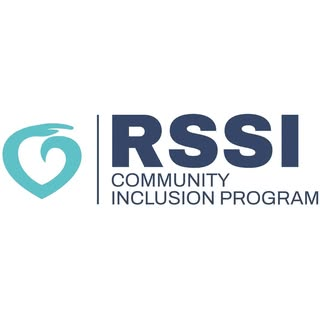
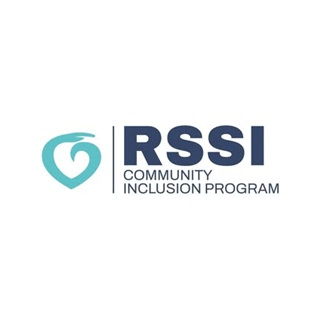
ok_added_og_image

Changed region(s): [[0.0, 0.3438, 1.0, 0.6562]]

diff --git a/public/admission.html b/public/admission.html
@@ -15,6 +15,7 @@
         content="Explore admission details at RSSI NGO and Kalpana Buds School. Learn about eligibility, application process, and academic programs for early childhood and primary education.">
 
     <meta name="author" content="RSSI NGO">
+    <meta property="og:image" content="https://rssi.in/img/og_image.png">
     <meta name="keywords"
         content="RSSI NGO admission, Kalpana Buds School admission, school admission process, nursery admission, UKG admission, primary school admission, NGO education program, child education NGO, admission guidelines">
     <meta charset="UTF-8">

diff --git a/public/donation_invoice.html b/public/donation_invoice.html
@@ -15,6 +15,7 @@
         content="Generate and download your donation invoice from RSSI NGO. Access official donation receipts for your contributions made towards education and social welfare initiatives.">
 
     <meta name="author" content="RSSI NGO">
+    <meta property="og:image" content="https://rssi.in/img/og_image.png">
 
     <meta name="keywords"
         content="RSSI NGO donation invoice, donation receipt, NGO donation invoice, generate donation receipt, charity donation proof, donation acknowledgement, RSSI donation portal">

diff --git a/public/visit-us.html b/public/visit-us.html
@@ -16,6 +16,7 @@
     <meta name="keywords"
         content="RSSI NGO visit, NGO centre visit, RSSI NGO location, NGO programs, community initiatives, NGO contact information">
     <meta name="author" content="RSSI NGO">
+    <meta property="og:image" content="https://rssi.in/img/og_image.png">
     <meta charset="UTF-8">
     <meta http-equiv="X-UA-Compatible" content="IE=Edge">
     <meta name="viewport" content="width=device-width, initial-scale=1, maximum-scale=1">

diff --git a/public/signup.html b/public/signup.html
@@ -20,6 +20,7 @@
     <meta name="keywords"
         content="RSSI NGO application form, NGO jobs application, internship application, volunteer registration, membership application">
     <meta name="author" content="RSSI NGO">
+    <meta property="og:image" content="https://rssi.in/img/og_image.png">
     <link rel="shortcut icon" href="../img/favicon.ico" type="image/x-icon" />
     <!-- Bootstrap CSS -->
     <!-- Bootstrap CSS -->

diff --git a/public/announcements.html b/public/announcements.html
@@ -23,6 +23,7 @@
         content="RSSI NGO announcements, RSSI NGO updates, RSSI notices, NGO announcements India, RSSI NGO news, social initiatives updates, education NGO announcements, Kalpana Buds School updates">
 
     <meta name="author" content="RSSI NGO">
+    <meta property="og:image" content="https://rssi.in/img/og_image.png">
 
     <!-- Favicons -->
     <link href="/img/favicon.ico" rel="icon">

diff --git a/public/registration.html b/public/registration.html
@@ -19,6 +19,7 @@
     <meta name="keywords"
         content="RSSI get involved, join RSSI NGO, volunteer opportunities, internship program, NGO membership, job opportunities, community service">
     <meta name="author" content="RSSI NGO">
+    <meta property="og:image" content="https://rssi.in/img/og_image.png">
 
     <!-- Favicons -->
     <link href="/img/favicon.ico" rel="icon">

diff --git a/public/donation-portal.html b/public/donation-portal.html
@@ -22,6 +22,7 @@
         content="donate to RSSI NGO, NGO donation, support education NGO, charity donation India, donate for social welfare, nonprofit donation, RSSI donation portal">
 
     <meta name="author" content="RSSI NGO">
+    <meta property="og:image" content="https://rssi.in/img/og_image.png">
 
     <!-- Favicons -->
     <link href="/img/favicon.ico" rel="icon">

diff --git a/public/careers.html b/public/careers.html
@@ -19,6 +19,7 @@
     <meta name="keywords"
         content="RSSI NGO careers, teaching jobs Lucknow, Assistant Teacher job, education jobs, pre-primary teacher, primary teacher">
     <meta name="author" content="RSSI NGO">
+    <meta property="og:image" content="https://rssi.in/img/og_image.png">
 
     <!-- Favicons -->
     <link href="/img/favicon.ico" rel="icon">

diff --git a/public/volunteering.html b/public/volunteering.html
@@ -19,6 +19,7 @@
     <meta name="keywords"
         content="RSSI volunteering, NGO volunteer, community service, volunteer opportunities, education volunteer, social work">
     <meta name="author" content="RSSI NGO">
+    <meta property="og:image" content="https://rssi.in/img/og_image.png">
 
     <!-- Favicons -->
     <link href="/img/favicon.ico" rel="icon">

diff --git a/public/payment.html b/public/payment.html
@@ -20,6 +20,7 @@
     <meta name="keywords"
         content="RSSI NGO payment portal, student fee payment, member payments, online fee submission, secure payment system">
     <meta name="author" content="RSSI NGO">
+    <meta property="og:image" content="https://rssi.in/img/og_image.png">
 
     <!-- Favicons -->
     <link href="/img/favicon.ico" rel="icon">

diff --git a/public/membership.html b/public/membership.html
@@ -19,6 +19,7 @@
     <meta name="keywords"
         content="RSSI NGO membership, community service, NGO supporter, education NGO, social impact, community certificate">
     <meta name="author" content="RSSI NGO">
+    <meta property="og:image" content="https://rssi.in/img/og_image.png">
 
     <!-- Favicons -->
     <link href="/img/favicon.ico" rel="icon">

diff --git a/public/result-portal.html b/public/result-portal.html
@@ -20,6 +20,7 @@
     <meta name="keywords"
         content="RSSI NGO result portal, student results, assessment outcomes, online result checking, academic evaluations">
     <meta name="author" content="RSSI NGO">
+    <meta property="og:image" content="https://rssi.in/img/og_image.png">
 
     <!-- Favicons -->
     <link href="/img/favicon.ico" rel="icon">
